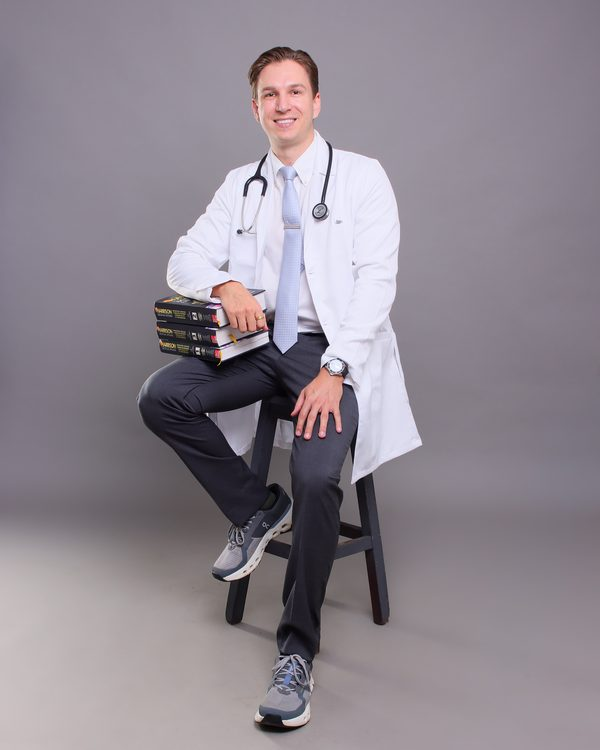
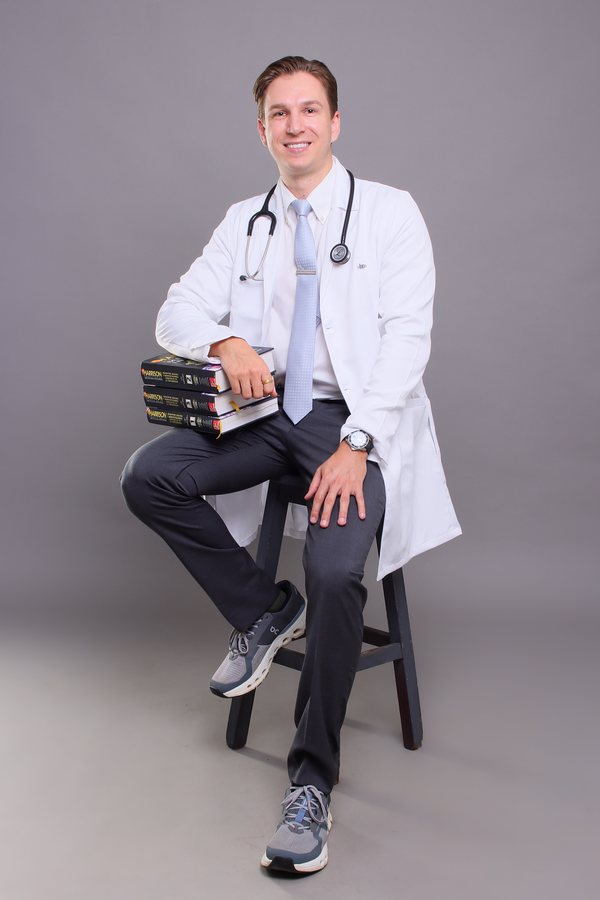
Add Park Lofts Tower rendering to photo strip; switch strip to 2:3

diff --git a/es.html b/es.html
@@ -124,8 +124,8 @@ a:hover .more-link::after{transform:translateX(4px)}
 .strip{padding-top:8px;border-top:none;background:var(--paper)}
 .strip-row{display:flex;gap:16px;overflow-x:auto;scroll-snap-type:x mandatory;scroll-padding-inline:22px;-webkit-overflow-scrolling:touch;margin:0 -22px;padding:0 22px 6px;scrollbar-width:none}
 .strip-row::-webkit-scrollbar{display:none}
-.strip figure{flex:0 0 78%;scroll-snap-align:start}
-.strip img{width:100%;aspect-ratio:4/5;object-fit:cover;border-radius:2px;background:var(--mint)}
+.strip figure{flex:0 0 70%;scroll-snap-align:start}
+.strip img{width:100%;aspect-ratio:2/3;object-fit:cover;border-radius:2px;background:var(--mint)}
 .strip figcaption{margin-top:10px;font-size:12px;letter-spacing:.04em;color:var(--muted);line-height:1.5}
 /* timeline */
 .tl{list-style:none;border-left:1px solid var(--line);margin-left:4px}
@@ -170,7 +170,7 @@ footer a:hover{color:var(--navy)}
   .cols{grid-template-columns:1fr 1fr;gap:56px}
   .strip{padding-top:20px}
   .sec.press{padding-bottom:44px}
-  .strip-row{display:grid;grid-template-columns:repeat(3,1fr);gap:24px;overflow:visible;margin:0;padding:0}
+  .strip-row{display:grid;grid-template-columns:repeat(4,1fr);gap:20px;overflow:visible;margin:0;padding:0}
   .strip figure{flex:none}
   .tl li{display:grid;grid-template-columns:140px 1fr;gap:24px;padding-left:28px}
   .tl .yr{padding-top:6px}
@@ -245,7 +245,7 @@ footer a:hover{color:var(--navy)}
 </div></section>
 
 <section class="sec strip" aria-label="Photos"><div class="wrap">
-  <div class="strip-row"><figure><img src="images/strip-site-600.jpg" srcset="images/strip-site-600.jpg 600w, images/strip-site-1000.jpg 1000w" sizes="(min-width:760px) 320px, 78vw" width="600" height="750" alt="Robin Loths en la obra de Park Lofts Recoleta en Asunción" loading="lazy" decoding="async"><figcaption>Park Lofts Recoleta, en obra en Asunci&oacute;n</figcaption></figure><figure><img src="images/strip-coat-600.jpg" srcset="images/strip-coat-600.jpg 600w, images/strip-coat-1000.jpg 1000w" sizes="(min-width:760px) 320px, 78vw" width="600" height="750" alt="Robin Loths con bata blanca y libros de medicina" loading="lazy" decoding="async"><figcaption>Estudiante de Medicina desde 2026</figcaption></figure><figure><img src="images/strip-award-600.jpg" srcset="images/strip-award-600.jpg 600w, images/strip-award-1000.jpg 1000w" sizes="(min-width:760px) 320px, 78vw" width="600" height="750" alt="Distinción de la UMAX por el segundo puesto en Histología Humana, junio de 2026" loading="lazy" decoding="async"><figcaption>Segundo puesto, Histolog&iacute;a Humana, junio de 2026</figcaption></figure></div>
+  <div class="strip-row"><figure><img src="images/strip-tower-600.jpg?v=2" srcset="images/strip-tower-600.jpg?v=2 600w, images/strip-tower-900.jpg?v=2 900w" sizes="(min-width:760px) 240px, 70vw" width="600" height="900" alt="Render de Park Lofts Tower en Asunción, 100 metros de altura" loading="lazy" decoding="async"><figcaption>Park Lofts Tower, render &middot; 100&nbsp;m de altura, 7.000&nbsp;m&sup2;</figcaption></figure><figure><img src="images/strip-site-600.jpg?v=2" srcset="images/strip-site-600.jpg?v=2 600w, images/strip-site-900.jpg?v=2 900w" sizes="(min-width:760px) 240px, 70vw" width="600" height="900" alt="Robin Loths en la obra de Park Lofts Recoleta en Asunción" loading="lazy" decoding="async"><figcaption>Park Lofts Recoleta, en obra en Asunci&oacute;n</figcaption></figure><figure><img src="images/strip-coat-600.jpg?v=2" srcset="images/strip-coat-600.jpg?v=2 600w, images/strip-coat-900.jpg?v=2 900w" sizes="(min-width:760px) 240px, 70vw" width="600" height="900" alt="Robin Loths con bata blanca y libros de medicina" loading="lazy" decoding="async"><figcaption>Estudiante de Medicina desde 2026</figcaption></figure><figure><img src="images/strip-award-600.jpg?v=2" srcset="images/strip-award-600.jpg?v=2 600w, images/strip-award-900.jpg?v=2 900w" sizes="(min-width:760px) 240px, 70vw" width="600" height="900" alt="Distinción de la UMAX por el segundo puesto en Histología Humana, junio de 2026" loading="lazy" decoding="async"><figcaption>Segundo puesto, Histolog&iacute;a Humana, junio de 2026</figcaption></figure></div>
 </div></section>
 
 <section class="sec" id="path"><div class="wrap">

diff --git a/de.html b/de.html
@@ -124,8 +124,8 @@ a:hover .more-link::after{transform:translateX(4px)}
 .strip{padding-top:8px;border-top:none;background:var(--paper)}
 .strip-row{display:flex;gap:16px;overflow-x:auto;scroll-snap-type:x mandatory;scroll-padding-inline:22px;-webkit-overflow-scrolling:touch;margin:0 -22px;padding:0 22px 6px;scrollbar-width:none}
 .strip-row::-webkit-scrollbar{display:none}
-.strip figure{flex:0 0 78%;scroll-snap-align:start}
-.strip img{width:100%;aspect-ratio:4/5;object-fit:cover;border-radius:2px;background:var(--mint)}
+.strip figure{flex:0 0 70%;scroll-snap-align:start}
+.strip img{width:100%;aspect-ratio:2/3;object-fit:cover;border-radius:2px;background:var(--mint)}
 .strip figcaption{margin-top:10px;font-size:12px;letter-spacing:.04em;color:var(--muted);line-height:1.5}
 /* timeline */
 .tl{list-style:none;border-left:1px solid var(--line);margin-left:4px}
@@ -170,7 +170,7 @@ footer a:hover{color:var(--navy)}
   .cols{grid-template-columns:1fr 1fr;gap:56px}
   .strip{padding-top:20px}
   .sec.press{padding-bottom:44px}
-  .strip-row{display:grid;grid-template-columns:repeat(3,1fr);gap:24px;overflow:visible;margin:0;padding:0}
+  .strip-row{display:grid;grid-template-columns:repeat(4,1fr);gap:20px;overflow:visible;margin:0;padding:0}
   .strip figure{flex:none}
   .tl li{display:grid;grid-template-columns:140px 1fr;gap:24px;padding-left:28px}
   .tl .yr{padding-top:6px}
@@ -245,7 +245,7 @@ footer a:hover{color:var(--navy)}
 </div></section>
 
 <section class="sec strip" aria-label="Photos"><div class="wrap">
-  <div class="strip-row"><figure><img src="images/strip-site-600.jpg" srcset="images/strip-site-600.jpg 600w, images/strip-site-1000.jpg 1000w" sizes="(min-width:760px) 320px, 78vw" width="600" height="750" alt="Robin Loths auf der Baustelle von Park Lofts Recoleta in Asunción" loading="lazy" decoding="async"><figcaption>Park Lofts Recoleta, auf der Baustelle in Asunci&oacute;n</figcaption></figure><figure><img src="images/strip-coat-600.jpg" srcset="images/strip-coat-600.jpg 600w, images/strip-coat-1000.jpg 1000w" sizes="(min-width:760px) 320px, 78vw" width="600" height="750" alt="Robin Loths im Arztkittel mit medizinischen Lehrbüchern" loading="lazy" decoding="async"><figcaption>Medizinstudent seit 2026</figcaption></figure><figure><img src="images/strip-award-600.jpg" srcset="images/strip-award-600.jpg 600w, images/strip-award-1000.jpg 1000w" sizes="(min-width:760px) 320px, 78vw" width="600" height="750" alt="UMAX-Auszeichnung für den zweiten Platz in Humanhistologie, Juni 2026" loading="lazy" decoding="async"><figcaption>Zweiter Platz, Humanhistologie, Juni 2026</figcaption></figure></div>
+  <div class="strip-row"><figure><img src="images/strip-tower-600.jpg?v=2" srcset="images/strip-tower-600.jpg?v=2 600w, images/strip-tower-900.jpg?v=2 900w" sizes="(min-width:760px) 240px, 70vw" width="600" height="900" alt="Visualisierung des Park Lofts Tower in Asunción, 100 Meter hoch" loading="lazy" decoding="async"><figcaption>Park Lofts Tower, Visualisierung &middot; 100&nbsp;m H&ouml;he, 7.000&nbsp;m&sup2;</figcaption></figure><figure><img src="images/strip-site-600.jpg?v=2" srcset="images/strip-site-600.jpg?v=2 600w, images/strip-site-900.jpg?v=2 900w" sizes="(min-width:760px) 240px, 70vw" width="600" height="900" alt="Robin Loths auf der Baustelle von Park Lofts Recoleta in Asunción" loading="lazy" decoding="async"><figcaption>Park Lofts Recoleta, auf der Baustelle in Asunci&oacute;n</figcaption></figure><figure><img src="images/strip-coat-600.jpg?v=2" srcset="images/strip-coat-600.jpg?v=2 600w, images/strip-coat-900.jpg?v=2 900w" sizes="(min-width:760px) 240px, 70vw" width="600" height="900" alt="Robin Loths im Arztkittel mit medizinischen Lehrbüchern" loading="lazy" decoding="async"><figcaption>Medizinstudent seit 2026</figcaption></figure><figure><img src="images/strip-award-600.jpg?v=2" srcset="images/strip-award-600.jpg?v=2 600w, images/strip-award-900.jpg?v=2 900w" sizes="(min-width:760px) 240px, 70vw" width="600" height="900" alt="UMAX-Auszeichnung für den zweiten Platz in Humanhistologie, Juni 2026" loading="lazy" decoding="async"><figcaption>Zweiter Platz, Humanhistologie, Juni 2026</figcaption></figure></div>
 </div></section>
 
 <section class="sec" id="path"><div class="wrap">

diff --git a/pt.html b/pt.html
@@ -124,8 +124,8 @@ a:hover .more-link::after{transform:translateX(4px)}
 .strip{padding-top:8px;border-top:none;background:var(--paper)}
 .strip-row{display:flex;gap:16px;overflow-x:auto;scroll-snap-type:x mandatory;scroll-padding-inline:22px;-webkit-overflow-scrolling:touch;margin:0 -22px;padding:0 22px 6px;scrollbar-width:none}
 .strip-row::-webkit-scrollbar{display:none}
-.strip figure{flex:0 0 78%;scroll-snap-align:start}
-.strip img{width:100%;aspect-ratio:4/5;object-fit:cover;border-radius:2px;background:var(--mint)}
+.strip figure{flex:0 0 70%;scroll-snap-align:start}
+.strip img{width:100%;aspect-ratio:2/3;object-fit:cover;border-radius:2px;background:var(--mint)}
 .strip figcaption{margin-top:10px;font-size:12px;letter-spacing:.04em;color:var(--muted);line-height:1.5}
 /* timeline */
 .tl{list-style:none;border-left:1px solid var(--line);margin-left:4px}
@@ -170,7 +170,7 @@ footer a:hover{color:var(--navy)}
   .cols{grid-template-columns:1fr 1fr;gap:56px}
   .strip{padding-top:20px}
   .sec.press{padding-bottom:44px}
-  .strip-row{display:grid;grid-template-columns:repeat(3,1fr);gap:24px;overflow:visible;margin:0;padding:0}
+  .strip-row{display:grid;grid-template-columns:repeat(4,1fr);gap:20px;overflow:visible;margin:0;padding:0}
   .strip figure{flex:none}
   .tl li{display:grid;grid-template-columns:140px 1fr;gap:24px;padding-left:28px}
   .tl .yr{padding-top:6px}
@@ -245,7 +245,7 @@ footer a:hover{color:var(--navy)}
 </div></section>
 
 <section class="sec strip" aria-label="Photos"><div class="wrap">
-  <div class="strip-row"><figure><img src="images/strip-site-600.jpg" srcset="images/strip-site-600.jpg 600w, images/strip-site-1000.jpg 1000w" sizes="(min-width:760px) 320px, 78vw" width="600" height="750" alt="Robin Loths na obra do Park Lofts Recoleta em Assunção" loading="lazy" decoding="async"><figcaption>Park Lofts Recoleta, na obra em Assun&ccedil;&atilde;o</figcaption></figure><figure><img src="images/strip-coat-600.jpg" srcset="images/strip-coat-600.jpg 600w, images/strip-coat-1000.jpg 1000w" sizes="(min-width:760px) 320px, 78vw" width="600" height="750" alt="Robin Loths de jaleco com livros de medicina" loading="lazy" decoding="async"><figcaption>Estudante de Medicina desde 2026</figcaption></figure><figure><img src="images/strip-award-600.jpg" srcset="images/strip-award-600.jpg 600w, images/strip-award-1000.jpg 1000w" sizes="(min-width:760px) 320px, 78vw" width="600" height="750" alt="Prêmio da UMAX pelo segundo lugar em Histologia Humana, junho de 2026" loading="lazy" decoding="async"><figcaption>Segundo lugar, Histologia Humana, junho de 2026</figcaption></figure></div>
+  <div class="strip-row"><figure><img src="images/strip-tower-600.jpg?v=2" srcset="images/strip-tower-600.jpg?v=2 600w, images/strip-tower-900.jpg?v=2 900w" sizes="(min-width:760px) 240px, 70vw" width="600" height="900" alt="Render do Park Lofts Tower em Assunção, 100 metros de altura" loading="lazy" decoding="async"><figcaption>Park Lofts Tower, render &middot; 100&nbsp;m de altura, 7.000&nbsp;m&sup2;</figcaption></figure><figure><img src="images/strip-site-600.jpg?v=2" srcset="images/strip-site-600.jpg?v=2 600w, images/strip-site-900.jpg?v=2 900w" sizes="(min-width:760px) 240px, 70vw" width="600" height="900" alt="Robin Loths na obra do Park Lofts Recoleta em Assunção" loading="lazy" decoding="async"><figcaption>Park Lofts Recoleta, na obra em Assun&ccedil;&atilde;o</figcaption></figure><figure><img src="images/strip-coat-600.jpg?v=2" srcset="images/strip-coat-600.jpg?v=2 600w, images/strip-coat-900.jpg?v=2 900w" sizes="(min-width:760px) 240px, 70vw" width="600" height="900" alt="Robin Loths de jaleco com livros de medicina" loading="lazy" decoding="async"><figcaption>Estudante de Medicina desde 2026</figcaption></figure><figure><img src="images/strip-award-600.jpg?v=2" srcset="images/strip-award-600.jpg?v=2 600w, images/strip-award-900.jpg?v=2 900w" sizes="(min-width:760px) 240px, 70vw" width="600" height="900" alt="Prêmio da UMAX pelo segundo lugar em Histologia Humana, junho de 2026" loading="lazy" decoding="async"><figcaption>Segundo lugar, Histologia Humana, junho de 2026</figcaption></figure></div>
 </div></section>
 
 <section class="sec" id="path"><div class="wrap">

diff --git a/index.html b/index.html
@@ -124,8 +124,8 @@ a:hover .more-link::after{transform:translateX(4px)}
 .strip{padding-top:8px;border-top:none;background:var(--paper)}
 .strip-row{display:flex;gap:16px;overflow-x:auto;scroll-snap-type:x mandatory;scroll-padding-inline:22px;-webkit-overflow-scrolling:touch;margin:0 -22px;padding:0 22px 6px;scrollbar-width:none}
 .strip-row::-webkit-scrollbar{display:none}
-.strip figure{flex:0 0 78%;scroll-snap-align:start}
-.strip img{width:100%;aspect-ratio:4/5;object-fit:cover;border-radius:2px;background:var(--mint)}
+.strip figure{flex:0 0 70%;scroll-snap-align:start}
+.strip img{width:100%;aspect-ratio:2/3;object-fit:cover;border-radius:2px;background:var(--mint)}
 .strip figcaption{margin-top:10px;font-size:12px;letter-spacing:.04em;color:var(--muted);line-height:1.5}
 /* timeline */
 .tl{list-style:none;border-left:1px solid var(--line);margin-left:4px}
@@ -170,7 +170,7 @@ footer a:hover{color:var(--navy)}
   .cols{grid-template-columns:1fr 1fr;gap:56px}
   .strip{padding-top:20px}
   .sec.press{padding-bottom:44px}
-  .strip-row{display:grid;grid-template-columns:repeat(3,1fr);gap:24px;overflow:visible;margin:0;padding:0}
+  .strip-row{display:grid;grid-template-columns:repeat(4,1fr);gap:20px;overflow:visible;margin:0;padding:0}
   .strip figure{flex:none}
   .tl li{display:grid;grid-template-columns:140px 1fr;gap:24px;padding-left:28px}
   .tl .yr{padding-top:6px}
@@ -245,7 +245,7 @@ footer a:hover{color:var(--navy)}
 </div></section>
 
 <section class="sec strip" aria-label="Photos"><div class="wrap">
-  <div class="strip-row"><figure><img src="images/strip-site-600.jpg" srcset="images/strip-site-600.jpg 600w, images/strip-site-1000.jpg 1000w" sizes="(min-width:760px) 320px, 78vw" width="600" height="750" alt="Robin Loths on the Park Lofts Recoleta construction site in Asunción" loading="lazy" decoding="async"><figcaption>Park Lofts Recoleta, on site in Asunci&oacute;n</figcaption></figure><figure><img src="images/strip-coat-600.jpg" srcset="images/strip-coat-600.jpg 600w, images/strip-coat-1000.jpg 1000w" sizes="(min-width:760px) 320px, 78vw" width="600" height="750" alt="Robin Loths in a white coat with medical textbooks" loading="lazy" decoding="async"><figcaption>Medical student since 2026</figcaption></figure><figure><img src="images/strip-award-600.jpg" srcset="images/strip-award-600.jpg 600w, images/strip-award-1000.jpg 1000w" sizes="(min-width:760px) 320px, 78vw" width="600" height="750" alt="UMAX award for second place in human histology, June 2026" loading="lazy" decoding="async"><figcaption>Second place, Human Histology, June 2026</figcaption></figure></div>
+  <div class="strip-row"><figure><img src="images/strip-tower-600.jpg?v=2" srcset="images/strip-tower-600.jpg?v=2 600w, images/strip-tower-900.jpg?v=2 900w" sizes="(min-width:760px) 240px, 70vw" width="600" height="900" alt="Rendering of Park Lofts Tower in Asunción, 100 metres tall" loading="lazy" decoding="async"><figcaption>Park Lofts Tower, rendering &middot; 100&nbsp;m tall, 7,000&nbsp;m&sup2;</figcaption></figure><figure><img src="images/strip-site-600.jpg?v=2" srcset="images/strip-site-600.jpg?v=2 600w, images/strip-site-900.jpg?v=2 900w" sizes="(min-width:760px) 240px, 70vw" width="600" height="900" alt="Robin Loths on the Park Lofts Recoleta construction site in Asunción" loading="lazy" decoding="async"><figcaption>Park Lofts Recoleta, on site in Asunci&oacute;n</figcaption></figure><figure><img src="images/strip-coat-600.jpg?v=2" srcset="images/strip-coat-600.jpg?v=2 600w, images/strip-coat-900.jpg?v=2 900w" sizes="(min-width:760px) 240px, 70vw" width="600" height="900" alt="Robin Loths in a white coat with medical textbooks" loading="lazy" decoding="async"><figcaption>Medical student since 2026</figcaption></figure><figure><img src="images/strip-award-600.jpg?v=2" srcset="images/strip-award-600.jpg?v=2 600w, images/strip-award-900.jpg?v=2 900w" sizes="(min-width:760px) 240px, 70vw" width="600" height="900" alt="UMAX award for second place in human histology, June 2026" loading="lazy" decoding="async"><figcaption>Second place, Human Histology, June 2026</figcaption></figure></div>
 </div></section>
 
 <section class="sec" id="path"><div class="wrap">
